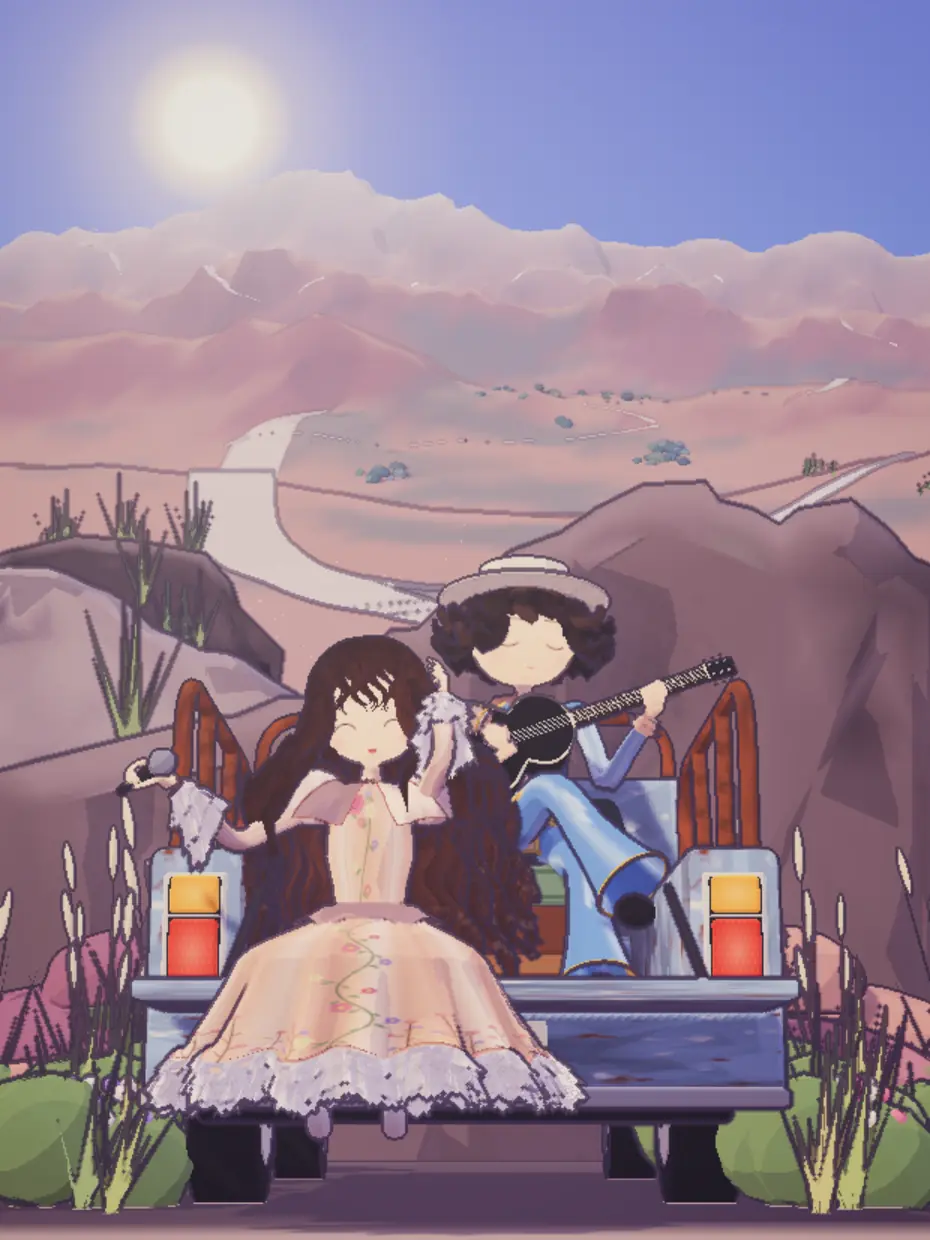
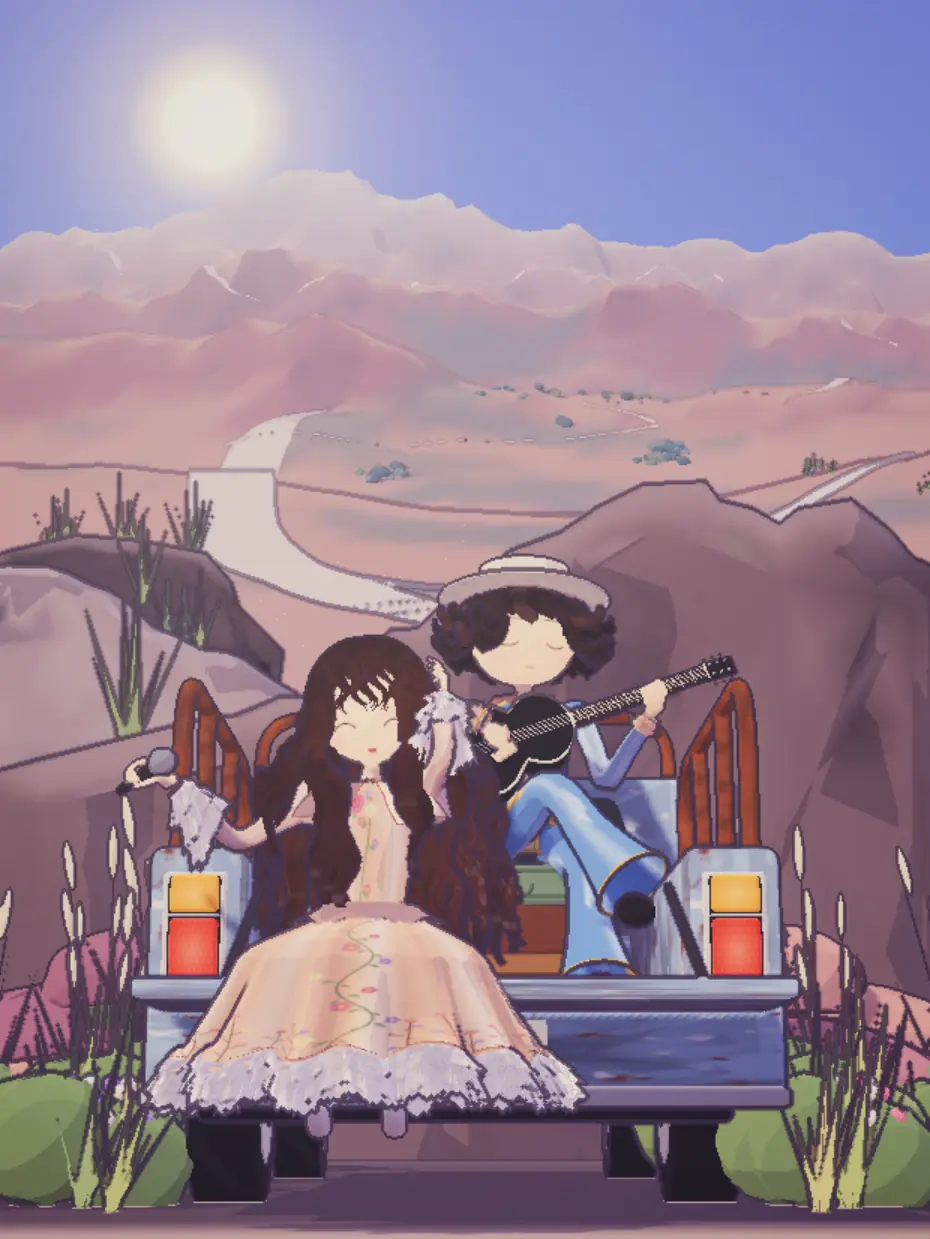
수현 머리: 뒷머리 덜 풍성하게, 어깨 앞으로 넘어오는 가닥 추가
- 뒷머리 26 → 22가닥, 폭과 아래로 퍼지는 양을 줄임. 옆머리 부푸는 양도 줄임
- 사진처럼 어깨를 넘어 상체를 덮는 가닥을 더함(마이크 든 쪽 5, 손 올린 쪽 2).
  끝자리는 기존 충돌 처리가 몸 바깥으로 밀어 줘 가슴 면을 타고 흐른다
- 장면이 바뀌었으므로 첫 화면 그림(seen/img/paradise-first.webp)을 다시 떴다

Changed region(s): [[0.2495, 0.5521, 0.4677, 0.7667], [0.5301, 0.6134, 0.5925, 0.7974]]

diff --git a/seen/scene/woman.js b/seen/scene/woman.js
@@ -473,7 +473,7 @@ export function buildWoman({ THREE, mat, RoundedBoxGeometry }) {
         const t = i / n, y = sy - t * len, d = t * len, cw = Math.min(1, t * 25), amp = (0.006 + 0.003 * t) * cw, ca = d * 160 + ph;
         const ease = 0.5 - 0.5 * Math.cos(Math.min(1, t * 1.6) * Math.PI);   // 두피에서 바깥으로 천천히 벌어짐(꺾이지 않게). 옆머리는 얼굴 높이에서 이미 옆으로 부풀고 아래로 더 퍼짐
         const pk = s > 0 && zp > -0.01 ? 0.3 : 1;   // 손을 올린 쪽 앞머리칼은 손 뒤로 지나가게 덜 부풂
-        let x = sx + s * (pk * (0.016 * Math.min(1, t * 3) + 0.072 * THREE.MathUtils.smoothstep(t, 0.12, 0.5)) + 0.045 * t * t), z = sz - 0.03 * t;   // 사진: 관자놀이는 붙고 턱~어깨 높이에서 가장 넓음   // 관자놀이 아래부터 옆으로 볼록하게 부풂   // 아래로 갈수록 조금씩 퍼짐
+        let x = sx + s * (pk * (0.016 * Math.min(1, t * 3) + 0.060 * THREE.MathUtils.smoothstep(t, 0.12, 0.5)) + 0.032 * t * t), z = sz - 0.03 * t;   // 사진: 관자놀이는 붙고 턱~어깨 높이에서 가장 넓음   // 관자놀이 아래부터 옆으로 볼록하게 부풂   // 아래로 갈수록 조금씩 퍼짐
         if (y < -0.12 && !front) z = Math.min(z, -0.09 - 0.02 * t);   // 어깨 아래로는 등 뒤로
         if (front) { z = sz + 0.014 * Math.sin(Math.min(1, t * 2.2) * Math.PI * 0.5) - 0.004 * k * t; x = sx + s * (0.014 + pk * (0.012 * Math.min(1, t * 3) + 0.05 * THREE.MathUtils.smoothstep(t, 0.15, 0.55)) + 0.006 * t + 0.006 * (k % 3) * t); }   // 얼굴 옆선 바깥으로   // 얼굴 옆선 바깥으로 비켜 어깨 앞으로
         pts.push(V(x, y, z));
@@ -482,18 +482,44 @@ export function buildWoman({ THREE, mat, RoundedBoxGeometry }) {
       const wf = tt => { const T = Math.max(0, (tt - t0) / (1 - t0)), d = T * len; return (0.008 + 0.005 * T) * Math.min(1, T * 8) * Math.cos(d * 70 + ph); };
       { const m = add(card(pts, front ? 0.016 : (s > 0 && zp > -0.02 ? 0.032 : 0.05), 120, 1, 0.12, wf, 1, (front ? 1.05 : 0.9 + 0.16 * hsh(k + s * 7)) * (zp < -0.04 ? 0.85 : 1) * (s > 0 ? 1.25 : 1), 3.5, 0.25), CARD[k % 3 === 1 ? 1 : 0], head); m.castShadow = false; if (zp > -0.03) m.receiveShadow = false; locks.push(m); }   // 정수리에 겹친 판끼리 검은 그림자 조각이 생기지 않게
     }
+    // 어깨 앞으로 넘어와 상체를 덮는 가닥(사진: 마이크 든 쪽에 여러 가닥, 손 올린 쪽은 짧게).
+    // 끝 자리는 충돌 처리가 몸 바깥으로 밀어 줘서 가슴 면을 타고 흐른다
+    for (const s of [-1, 1]) {
+      const cnt = s < 0 ? 5 : 2;
+      for (let k = 0; k < cnt; k++) {
+        const zp = 0.05 - k * 0.013, ph = k * 0.9 + (s > 0 ? 1.7 : 0.3);
+        const g = Math.sqrt(Math.max(0.1, 1 - (zp / (zp > 0 ? VOL.zf : VOL.zb)) ** 2));
+        const pts = [], a0 = Math.PI * 0.26, a1 = Math.PI * 0.44;
+        for (let i = 0; i <= 4; i++) { const a = a0 + i / 4 * (a1 - a0);
+          pts.push(V(s * (0.007 + Math.sin(a) * (VOL.x * g + 0.002)), 0.012 + Math.cos(a) * (VOL.y * g + 0.002), zp)); }
+        const len = (s < 0 ? 0.30 : 0.22) + (k % 3) * 0.03, n = 16;
+        const sx = pts[4].x, sy = pts[4].y, sz = pts[4].z;
+        for (let i = 1; i <= n; i++) {
+          const t = i / n, y = sy - t * len;
+          const over = THREE.MathUtils.smoothstep(t, 0.18, 0.6);   // 어깨 높이에서 앞으로 넘어옴
+          const x = sx * (1 - 0.42 * over) + s * (0.004 + 0.004 * (k % 2));   // 어깨를 넘으며 몸 쪽으로 모임
+          const z = sz + 0.015 + 0.03 * over;   // 앞으로 넘어온 뒤는 충돌 처리가 가슴 면에 얹어 준다
+          pts.push(V(x, y, z));
+        }
+        let arcL = 0; for (let i = 1; i <= 4; i++) arcL += pts[i].distanceTo(pts[i - 1]);
+        const t0 = arcL / (arcL + len);
+        const wf = tt => { const T = Math.max(0, (tt - t0) / (1 - t0)), d = T * len; return (0.006 + 0.004 * T) * Math.min(1, T * 8) * Math.cos(d * 70 + ph); };
+        const m = add(card(pts, 0.026, 120, 1, 0.12, wf, 1, 1.0 + 0.14 * hsh(k * 2.9 + s * 5), 3.5, 0.25), CARD[k % 3 === 1 ? 1 : 0], head);
+        m.castShadow = false; m.receiveShadow = false; locks.push(m);
+      }
+    }
     // 뒤통수에서 등으로 흘러내리는 뒷머리(넓게 겹쳐 빈틈을 메움)
-    for (let k = 0; k < 26; k++) {
-      const u = (k - 12.5) / 12.5, a = Math.PI + u * 1.2, ph = k * 0.5 + 0.6 * Math.sin(k * 5.71);
-      const rx = Math.sin(a) * 0.092, rz = Math.cos(a) * 0.1;
+    for (let k = 0; k < 22; k++) {
+      const u = (k - 10.5) / 10.5, a = Math.PI + u * 1.1, ph = k * 0.5 + 0.6 * Math.sin(k * 5.71);
+      const rx = Math.sin(a) * 0.078, rz = Math.cos(a) * 0.094;
       const pts = [V(rx * 0.5, 0.07, rz * 0.6), V(rx, 0.01, rz)];
       const len = 0.36 + ((k * 3) % 4) * 0.025;
-      for (let i = 1; i <= 14; i++) { const t = i / 14, d = t * len; pts.push(V(rx * (1 + 0.5 * t + 0.8 * t * t), 0.01 - d, Math.min(rz - 0.012 * t, -0.085) - 0.015 * t)); }
+      for (let i = 1; i <= 14; i++) { const t = i / 14, d = t * len; pts.push(V(rx * (1 + 0.3 * t + 0.38 * t * t), 0.01 - d, Math.min(rz - 0.012 * t, -0.085) - 0.012 * t)); }
       const wf = tt => { const T = Math.max(0, (tt - 0.12) / 0.88), d = T * len; return (0.008 + 0.005 * T) * Math.min(1, T * 8) * Math.cos(d * 70 + ph); };
-      locks.push(add(card(pts, 0.062, 120, 1, 0.1, wf, 1, (0.86 + 0.2 * hsh(k * 3.1)) * (u > 0.2 ? 1.15 : 1), 3.5, 0.25), CARD[k % 3 === 1 ? 1 : 0], head));   // 안쪽 층: 어둡게
+      locks.push(add(card(pts, 0.056, 120, 1, 0.1, wf, 1, (0.86 + 0.2 * hsh(k * 3.1)) * (u > 0.2 ? 1.15 : 1), 3.5, 0.25), CARD[k % 3 === 1 ? 1 : 0], head));   // 안쪽 층: 어둡게
     }
     // 등 뒤 채움 판(다발 사이로 비어 보이지 않게)
-    { const bk = add(new THREE.CylinderGeometry(0.06, 0.15, 0.36, 28, 6, true, Math.PI * 0.72, Math.PI * 0.56), mat("#4a2c22", { side: THREE.DoubleSide }), head); bk.position.set(0, -0.2, -0.075); }
+    { const bk = add(new THREE.CylinderGeometry(0.055, 0.125, 0.36, 28, 6, true, Math.PI * 0.72, Math.PI * 0.56), mat("#4a2c22", { side: THREE.DoubleSide }), head); bk.position.set(0, -0.2, -0.075); }
     // 일자 시스루 앞머리: 이마선에서 이마 곡면을 따라 내려와 눈썹 위에서 끝남. 가닥 사이가 살짝 벌어져 이마가 비침
     const brow = (x, y) => 0.072 * Math.sqrt(Math.max(0.02, 1 - (x / 0.071) ** 2 - ((y - 0.012) / 0.09) ** 2));
     // 정수리 앞쪽: 가운데 가르마 한 점에서 사방으로 퍼져 내려가는 결(가운데는 앞으로, 양옆은 비스듬히 옆으로 흘러 옆머리로 이어짐)

diff --git a/seen/detail.html b/seen/detail.html
@@ -9,8 +9,8 @@
 <link rel="icon" href="../icons/favicon.svg" type="image/svg+xml">
 <link rel="icon" href="../icons/favicon-32.png" sizes="32x32">
 <link rel="apple-touch-icon" href="../icons/apple-touch-icon.png">
-<script src="data.js?v=20261110-3"></script>
-<script src="ticket.js?v=20261110-3"></script>
+<script src="data.js?v=20261110-4"></script>
+<script src="ticket.js?v=20261110-4"></script>
 <script>
   // 이 기록의 첫 화면 그림을 가장 먼저 받기 시작한다(3D 장면이 뜨기 전에 보여 줄 그림)
   { const q = new URLSearchParams(location.search).get("id");
@@ -21,7 +21,7 @@
 <link rel="preconnect" href="https://cdn.jsdelivr.net" crossorigin>
 <link rel="stylesheet" href="https://fonts.googleapis.com/css2?family=Archivo:wdth,wght@62..125,400..900&family=IBM+Plex+Mono:wght@400;500&family=Nanum+Gothic+Coding&display=swap">
 <link rel="stylesheet" href="https://cdn.jsdelivr.net/npm/pretendard@1.3.9/dist/web/variable/pretendardvariable-dynamic-subset.min.css">
-<link rel="stylesheet" href="../style.css?v=20261110-3">
+<link rel="stylesheet" href="../style.css?v=20261110-4">
 <style>
   .detail__media img { aspect-ratio: 3 / 4; object-fit: cover; }
   /* 3D 장면 항목: 화면 높이에 맞춘 3:4 틀에 장면을 띄움 */
@@ -192,7 +192,7 @@ const ZOOM_OUT_ICON = `<svg viewBox="0 0 24 24" fill="none" stroke="currentColor
 const ZOOM_BTN = `<button type="button" class="card__zoom" aria-label="크게 보기" aria-pressed="false">${ZOOM_IN_ICON}</button>`;
 
 document.getElementById("post").innerHTML = `
-  <div class="detail__media"><div class="detail__frame">${s.scene ? `<div class="detail__stage"><iframe class="detail__scene" ${s.poster ? "data-src" : "src"}="${s.scene}?embed&zoom=0.9&down=0.08&v=20261110-3" title="${s.title}"></iframe>${s.poster ? `<img class="detail__poster" src="${s.poster}" alt="" aria-hidden="true" decoding="async" fetchpriority="high">` : ""}${cardBack(s)}</div>${cardDeco(s)}` : `<img src="${s.img}" alt="${s.title}">`}</div>${s.scene ? ZOOM_BTN + FLIP_BTN : ""}</div>
+  <div class="detail__media"><div class="detail__frame">${s.scene ? `<div class="detail__stage"><iframe class="detail__scene" ${s.poster ? "data-src" : "src"}="${s.scene}?embed&zoom=0.9&down=0.08&v=20261110-4" title="${s.title}"></iframe>${s.poster ? `<img class="detail__poster" src="${s.poster}" alt="" aria-hidden="true" decoding="async" fetchpriority="high">` : ""}${cardBack(s)}</div>${cardDeco(s)}` : `<img src="${s.img}" alt="${s.title}">`}</div>${s.scene ? ZOOM_BTN + FLIP_BTN : ""}</div>
   <div class="detail__side info">
     <h1 class="detail__title">${s.title}</h1>
     <p class="info__line">${[s.kind, s.by, s.place].filter(Boolean).join(" · ")}</p>

diff --git a/info.html b/info.html
@@ -13,7 +13,7 @@
 <link rel="preconnect" href="https://cdn.jsdelivr.net" crossorigin>
 <link rel="stylesheet" href="https://fonts.googleapis.com/css2?family=Archivo:wdth,wght@62..125,400..900&family=IBM+Plex+Mono:wght@400;500&family=Nanum+Gothic+Coding&display=swap">
 <link rel="stylesheet" href="https://cdn.jsdelivr.net/npm/pretendard@1.3.9/dist/web/variable/pretendardvariable-dynamic-subset.min.css">
-<link rel="stylesheet" href="style.css?v=20261110-3">
+<link rel="stylesheet" href="style.css?v=20261110-4">
 </head>
 <body>
 <header class="bar">
@@ -25,7 +25,7 @@
 </header>
 
 <main class="profile">
-  <img class="profile__photo" alt="2w_doridu 프로필 이미지" src="img/profile.png?v=20261110-3">
+  <img class="profile__photo" alt="2w_doridu 프로필 이미지" src="img/profile.png?v=20261110-4">
   <h1 class="detail__title">2w_doridu</h1>
   <p class="profile__intro">그림을 그리고, 마음에 드는 그림을 모읍니다.</p>
   <p class="profile__mail">hello@doridu.com</p>
@@ -35,7 +35,7 @@
   </ul>
 </main>
 
-<script src="data.js?v=20261110-3"></script>
-<script src="common.js?v=20261110-3"></script>
+<script src="data.js?v=20261110-4"></script>
+<script src="common.js?v=20261110-4"></script>
 </body>
 </html>

diff --git a/seen/index.html b/seen/index.html
@@ -13,7 +13,7 @@
 <link rel="preconnect" href="https://cdn.jsdelivr.net" crossorigin>
 <link rel="stylesheet" href="https://fonts.googleapis.com/css2?family=Archivo:wdth,wght@62..125,400..900&family=IBM+Plex+Mono:wght@400;500&family=Nanum+Gothic+Coding&display=swap">
 <link rel="stylesheet" href="https://cdn.jsdelivr.net/npm/pretendard@1.3.9/dist/web/variable/pretendardvariable-dynamic-subset.min.css">
-<link rel="stylesheet" href="../style.css?v=20261110-3">
+<link rel="stylesheet" href="../style.css?v=20261110-4">
 <style>
   .seen { padding: 24px var(--side) 80px; }
   .seen__title { font-family: var(--sans); font-stretch: 62%; font-weight: 800; font-size: 28px; margin-bottom: 16px; }
@@ -48,8 +48,8 @@
   <ul class="seen__grid" id="grid"></ul>
 </main>
 
-<script src="data.js?v=20261110-3"></script>
-<script src="ticket.js?v=20261110-3"></script>
+<script src="data.js?v=20261110-4"></script>
+<script src="ticket.js?v=20261110-4"></script>
 <script>
 document.getElementById("grid").innerHTML = SEEN.map(s => `
   <li><a class="tile" href="detail.html?id=${s.id}">

diff --git a/analysis-sample.html b/analysis-sample.html
@@ -13,7 +13,7 @@
 <link rel="preconnect" href="https://cdn.jsdelivr.net" crossorigin>
 <link rel="stylesheet" href="https://fonts.googleapis.com/css2?family=Archivo:wdth,wght@62..125,400..900&family=IBM+Plex+Mono:wght@400;500&family=Nanum+Gothic+Coding&display=swap">
 <link rel="stylesheet" href="https://cdn.jsdelivr.net/npm/pretendard@1.3.9/dist/web/variable/pretendardvariable-dynamic-subset.min.css">
-<link rel="stylesheet" href="style.css?v=20261110-3">
+<link rel="stylesheet" href="style.css?v=20261110-4">
 </head>
 <body>
 <header class="bar">
@@ -28,8 +28,8 @@
 <main id="post"></main>
 <nav class="pager"></nav>
 
-<script src="data.js?v=20261110-3"></script>
-<script src="common.js?v=20261110-3"></script>
+<script src="data.js?v=20261110-4"></script>
+<script src="common.js?v=20261110-4"></script>
 <script>
 // 분석 기록(색 구성·양식 유사도·디지털 지문) 샘플: ?id=게시물 식별자로 게시물을 고른다
 const post = byId[new URLSearchParams(location.search).get("id")] || byId["seguy-papillons-19"];

diff --git a/detail.html b/detail.html
@@ -13,7 +13,7 @@
 <link rel="preconnect" href="https://cdn.jsdelivr.net" crossorigin>
 <link rel="stylesheet" href="https://fonts.googleapis.com/css2?family=Archivo:wdth,wght@62..125,400..900&family=IBM+Plex+Mono:wght@400;500&family=Nanum+Gothic+Coding&display=swap">
 <link rel="stylesheet" href="https://cdn.jsdelivr.net/npm/pretendard@1.3.9/dist/web/variable/pretendardvariable-dynamic-subset.min.css">
-<link rel="stylesheet" href="style.css?v=20261110-3">
+<link rel="stylesheet" href="style.css?v=20261110-4">
 </head>
 <body>
 <header class="bar">
@@ -28,8 +28,8 @@
 <main id="post"></main>
 <nav class="pager"></nav>
 
-<script src="data.js?v=20261110-3"></script>
-<script src="common.js?v=20261110-3"></script>
+<script src="data.js?v=20261110-4"></script>
+<script src="common.js?v=20261110-4"></script>
 <script>
 // 시안: ?id=게시물 식별자로 게시물을 고른다
 const post = byId[new URLSearchParams(location.search).get("id")] || byId["seguy-papillons-19"];

diff --git a/index.html b/index.html
@@ -13,7 +13,7 @@
 <link rel="preconnect" href="https://cdn.jsdelivr.net" crossorigin>
 <link rel="stylesheet" href="https://fonts.googleapis.com/css2?family=Archivo:wdth,wght@62..125,400..900&family=IBM+Plex+Mono:wght@400;500&family=Nanum+Gothic+Coding&display=swap">
 <link rel="stylesheet" href="https://cdn.jsdelivr.net/npm/pretendard@1.3.9/dist/web/variable/pretendardvariable-dynamic-subset.min.css">
-<link rel="stylesheet" href="style.css?v=20261110-3">
+<link rel="stylesheet" href="style.css?v=20261110-4">
 </head>
 <body>
 <header class="bar">
@@ -35,8 +35,8 @@
   </aside>
 </div>
 
-<script src="data.js?v=20261110-3"></script>
-<script src="common.js?v=20261110-3"></script>
+<script src="data.js?v=20261110-4"></script>
+<script src="common.js?v=20261110-4"></script>
 <script>
 const grid = document.querySelector(".grid");
 const tiles = POSTS.map(p => {

diff --git a/seen/scene/paradise.html b/seen/scene/paradise.html
@@ -24,7 +24,7 @@
 </script>
 <link rel="preconnect" href="https://cdn.jsdelivr.net" crossorigin>
 <link rel="modulepreload" href="https://cdn.jsdelivr.net/npm/three@0.169.0/build/three.module.min.js" crossorigin>
-<link rel="modulepreload" href="woman.js?v=146">
+<link rel="modulepreload" href="woman.js?v=147">
 <link rel="modulepreload" href="man.js?v=24">
 </head>
 <body>
@@ -33,7 +33,7 @@ import * as THREE from "three";
 import * as BufferUtils from "three/addons/utils/BufferGeometryUtils.js";
 import { TessellateModifier } from "three/addons/modifiers/TessellateModifier.js";
 import { RoundedBoxGeometry } from "three/addons/geometries/RoundedBoxGeometry.js";
-import { buildWoman } from "./woman.js?v=146";
+import { buildWoman } from "./woman.js?v=147";
 import { buildMan } from "./man.js?v=24";
 
 // 인스타그램 세로 3:4

diff --git a/studio.html b/studio.html
@@ -13,7 +13,7 @@
 <link rel="preconnect" href="https://cdn.jsdelivr.net" crossorigin>
 <link rel="stylesheet" href="https://fonts.googleapis.com/css2?family=Archivo:wdth,wght@62..125,400..900&family=IBM+Plex+Mono:wght@400;500&family=Nanum+Gothic+Coding&display=swap">
 <link rel="stylesheet" href="https://cdn.jsdelivr.net/npm/pretendard@1.3.9/dist/web/variable/pretendardvariable-dynamic-subset.min.css">
-<link rel="stylesheet" href="style.css?v=20261110-3">
+<link rel="stylesheet" href="style.css?v=20261110-4">
 </head>
 <body>
 <header class="bar">

diff --git a/_notes/handoff.md b/_notes/handoff.md
@@ -56,7 +56,7 @@ git config user.email "40047261+2wdoridu@users.noreply.github.com"
 ## 4. 수정하고 배포하는 방법
 
 1. 파일을 고치고 로컬 서버로 확인한다. PC는 1920px과 1536px(1920 모니터 + Windows 배율 125%), 휴대폰은 390px로 확인한다.
-2. `index.html`, `detail.html`, `info.html`, `analysis-sample.html`에서 CSS·JS를 부르는 주소의 버전 표시(`?v=날짜-번호`)를 올린다. 현재 값은 `20261110-3`.
+2. `index.html`, `detail.html`, `info.html`, `analysis-sample.html`에서 CSS·JS를 부르는 주소의 버전 표시(`?v=날짜-번호`)를 올린다. 현재 값은 `20261110-4`.
 3. 커밋하고 `git push` 한다.
 4. 1~2분 뒤 공개 주소에 반영된다. 브라우저가 예전 파일을 보여 주면 Ctrl+F5.
 
@@ -191,6 +191,8 @@ git config user.email "40047261+2wdoridu@users.noreply.github.com"
 휴대폰 390px·CPU 4배 감속 기준: 프레임당 메인 스레드 작업 31.4ms → 20.5ms, 느린 4G 에서 카드에 그림이 뜨는 시각 5,973ms → 1,540ms.
 
 **크게 보기(2026-11-10)**: 상세 카드 아래 동그라미 둘 중 왼쪽. 누르면 `body.is-zoom` 이 붙어 테두리 장식과 종이 판을 숨기고 장면을 화면에 맞춰 키운다. 장면이 3:4 로 그려지므로 비율은 그대로 두고 남는 곳은 어둡게 둔다. 다시 누르거나 Escape 로 돌아온다. 크게 본 동안에는 상단 바가 가려지므로 단추를 5초 뒤에 숨기지 않는다. 장면(`paradise.html`)은 창 크기가 바뀌면 그 크기에 맞춰 다시 그린다(먹선 굵기 `texel` 은 화면 크기와 무관하게 정해져 있어 건드리지 않는다).
+
+**수현 머리(2026-11-10)**: 뒷머리 다발 26 → 22가닥, 폭 0.062 → 0.056, 아래로 퍼지는 양을 줄였다(등 뒤 채움 판 아래 반지름 0.15 → 0.125). 옆머리가 옆으로 부푸는 양도 줄였다. 사진처럼 어깨를 넘어 상체를 덮는 가닥을 더했다(마이크 든 쪽 5가닥, 손 올린 쪽 2가닥). 끝자리는 기존 충돌 처리가 몸 바깥으로 밀어 줘서 가슴 면을 타고 흐른다. 가운데(머리 좌표 |x| < 0.045)로는 넘어오지 않게 둔다 — 그 구간은 목 뒤로 보내는 규칙이 있다.
 
 **해 보고 되돌린 것**
 - 그림자 지도를 두 프레임에 한 번만 갱신: 0.4ms 밖에 못 줄이면서 인물 옷과 짐칸 음영이 달라졌다. 이때 알게 된 것 — `shadowMap.autoUpdate` 를 끄지 않으면 `light.shadow.needsUpdate` 는 아무 일도 하지 않는다. 장면마다 `renderer.shadowMap.needsUpdate` 를 따로 켜 줘야 한다.
